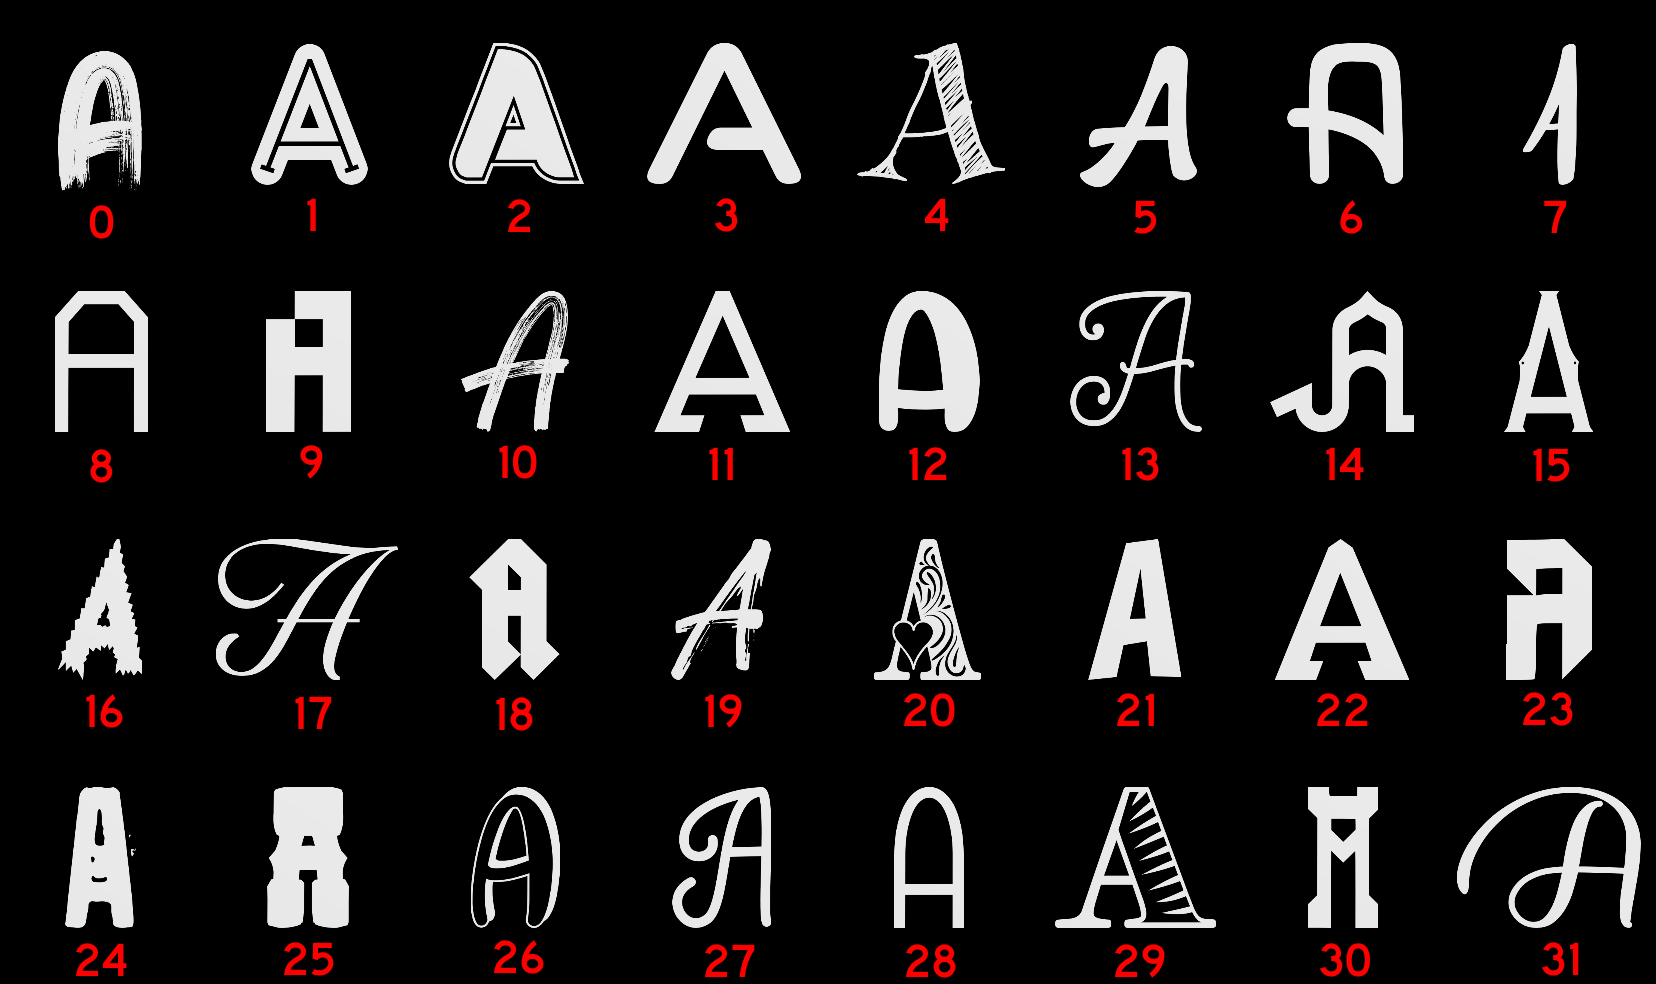
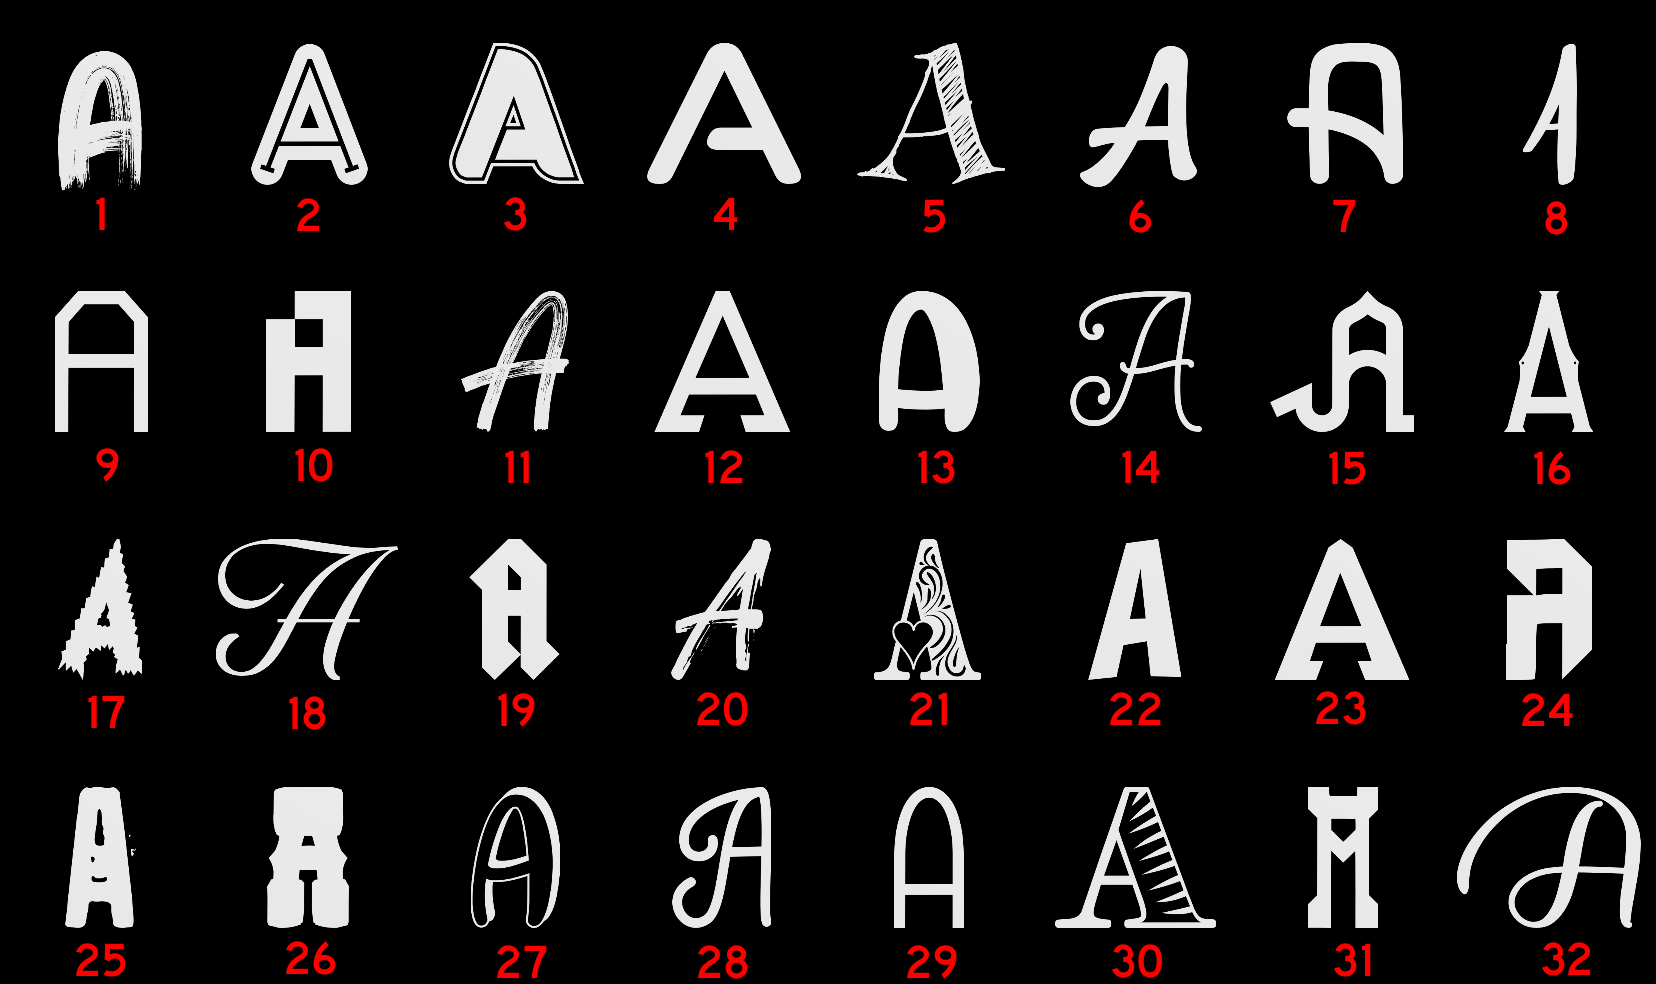
A Message opt change.

diff --git a/HTML/A Message optimized (Blananas2).html b/HTML/A Message optimized (Blananas2).html
@@ -33,7 +33,7 @@
                 
                 <p>For those familiar with the original manual.</p>
                 
-                <p>Each font is given a number from 0-31. Pressing the left and right buttons will subtract and add one to the font number, respectively. The module starts on font 0. Use the image below to tell the fonts apart. The message on the next page will show the numbers rather than fonts.</p>
+                <p>Each font is given a number from 1-32. Pressing the left and right buttons will subtract and add one to the font number, respectively. The module starts on font 0. Use the image below to tell the fonts apart. The message on the next page will show the numbers rather than fonts.</p>
                 <img src="img/A Message/AMess.png" style="width: 100%">
 
             </div>
@@ -47,7 +47,7 @@
             <div class="page-content">
                 
                 <p><code>
-                [16][14][27][15][30][02][27][15][12][20][03][18][31][17][08][04][09][10][02][27][19][06][18][27][19][20][15][02][15][13][01][31][00][22][03][25][14][18][28][09][31][21][21][04][06][12][03][21][24][27][12][12][22][08][13][26][31][20][17][19][05][29][06][04][26][26][26][06][17][27][08][14][25][24][06][10][15][16][03][25][02][21][04][30][01][25][10][16][09][12][10][01][19][21][10][30][28][30][14][18][07][29][11][24][00][20][00][22][28][26][10][05][29][12][28][06][16][05][09][05][18][24][19][08][30][26][18][23][14][00][16][09][17][26][12][24][17][03][25][15][10][08][15][01][15][10][29][27][08][06][05][26][02][26][23][23][17][08][31][12][08][05][22][03][31][22][30][09][17][24][23][30][29][10][12][22][01][25][20][22][12][18][22][07][01][30][00][19][28][24][19][02][24][24][16][26][29][12][23][05][18][00][12][15][27][02][21][18][28][27][05][10][04][27][01][30][30][13][00][29][12][21][12][16][29][06][25][07][15][04][14][11][25][29][18][10][20][17][14][15][22][21][17][28][25][14][31][16][30][18][20][20][27][16][23][29][17][24][09][05][22][08][29][12][08][16][00][20][17][25][24][10][13][12][07][09][14][01][28][01][16][17][08][30][01][30][09][27][08][24][02][27][12][15][06][17][11][01][27][08][19][15][12][30][26][30][11][25][19][03][09][10][29][20][10][25][00][06][09][20][12][12][15][29][23][06][27][18][08][08][15][11][06][20][25][03][22][04][04][25][00][26][10][11][23][16][13][12][08][18][18][12][20][01][23][14][11][30][13][25][23][02][04][29][12][17][17][18][25][10][31][03][04][20][16][07][22][10][26][14][18][09][01][26][16][23][06][22][03][31][08][15][23][30][25][04][30][24][08][00][30][20][10][17][07][15][28][09][04][13][17][04][11][27][18][02][11][29][29][18][22][10][03][20][03][05][11][08][19][27][14][10][16][10][09][31][16][09][29][31][00][20][15][24][28][19][15][02][10][00][14][13][00][23][08][04][02][29][01][26][31][05][08][00][30][26][25][25][14][14][25][07][13][28][19][06][05][02][05][02][12][31][27][17][18][23][12][05][08][08][15][10][09][29][06][14][04][27][13][22][25][00][17][03][23][19][22][25][29][14][18][15][24][25][12][22][23][03][06][27][00][14][15][11][19][31][17][10][04][03][07][05][07][25][03][05][18][13][27][29][29][07][11][26][27][16][24][19][03][31][08][31][16][15][00][11][31][22][01][02][12][14][15][09][04][01][29][07][22][23][31][13][08][28][09][20][06][11][09][09][14][05][15][04][11][22][20][03][29][26][05][01][15][12][04][15][28][20][23][20][27][00][07][17][26][08][11][13][17][30][24][31][01][29][01][00][09][22][27][05][05][24][26][23][29][22][30][10][18][28]
+                [17][15][28][16][31][03][28][16][13][21][04][19][32][18][09][05][10][11][03][28][20][07][19][28][20][21][16][03][16][14][02][32][01][23][04][26][15][19][29][10][32][22][22][05][07][13][04][22][25][28][13][13][23][09][14][27][32][21][18][20][06][30][07][05][27][27][27][07][18][28][09][15][26][25][07][11][16][17][04][26][03][22][05][31][02][26][11][17][10][13][11][02][20][22][11][31][29][31][15][19][08][30][12][25][01][21][01][23][29][27][11][06][30][13][29][07][17][06][10][06][19][25][20][09][31][27][19][24][15][01][17][10][18][27][13][25][18][04][26][16][11][09][16][02][16][11][30][28][09][07][06][27][03][27][24][24][18][09][32][13][09][06][23][04][32][23][31][10][18][25][24][31][30][11][13][23][02][26][21][23][13][19][23][08][02][31][01][20][29][25][20][03][25][25][17][27][30][13][24][06][19][01][13][16][28][03][22][19][29][28][06][11][05][28][02][31][31][14][01][30][13][22][13][17][30][07][26][08][16][05][15][12][26][30][19][11][21][18][15][16][23][22][18][29][26][15][32][17][31][19][21][21][28][17][24][30][18][25][10][06][23][09][30][13][09][17][01][21][18][26][25][11][14][13][08][10][15][02][29][02][17][18][09][31][02][31][10][28][09][25][03][28][13][16][07][18][12][02][28][09][20][16][13][31][27][31][12][26][20][04][10][11][30][21][11][26][01][07][10][21][13][13][16][30][24][07][28][19][09][09][16][12][07][21][26][04][23][05][05][26][01][27][11][12][24][17][14][13][09][19][19][13][21][02][24][15][12][31][14][26][24][03][05][30][13][18][18][19][26][11][32][04][05][21][17][08][23][11][27][15][19][10][02][27][17][24][07][23][04][32][09][16][24][31][26][05][31][25][09][01][31][21][11][18][08][16][29][10][05][14][18][05][12][28][19][03][12][30][30][19][23][11][04][21][04][06][12][09][20][28][15][11][17][11][10][32][17][10][30][32][01][21][16][25][29][20][16][03][11][01][15][14][01][24][09][05][03][30][02][27][32][06][09][01][31][27][26][26][15][15][26][08][14][29][20][07][06][03][06][03][13][32][28][18][19][24][13][06][09][09][16][11][10][30][07][15][05][28][14][23][26][01][18][04][24][20][23][26][30][15][19][16][25][26][13][23][24][04][07][28][01][15][16][12][20][32][18][11][05][04][08][06][08][26][04][06][19][14][28][30][30][08][12][27][28][17][25][20][04][32][09][32][17][16][01][12][32][23][02][03][13][15][16][10][05][02][30][08][23][24][32][14][09][29][10][21][07][12][10][10][15][06][16][05][12][23][21][04][30][27][06][02][16][13][05][16][29][21][24][21][28][01][08][18][27][09][12][14][18][31][25][32][02][30][02][01][10][23][28][06][06][25][27][24][30][23][31][11][19][29]
                 </code></p>
                 
             </div>
